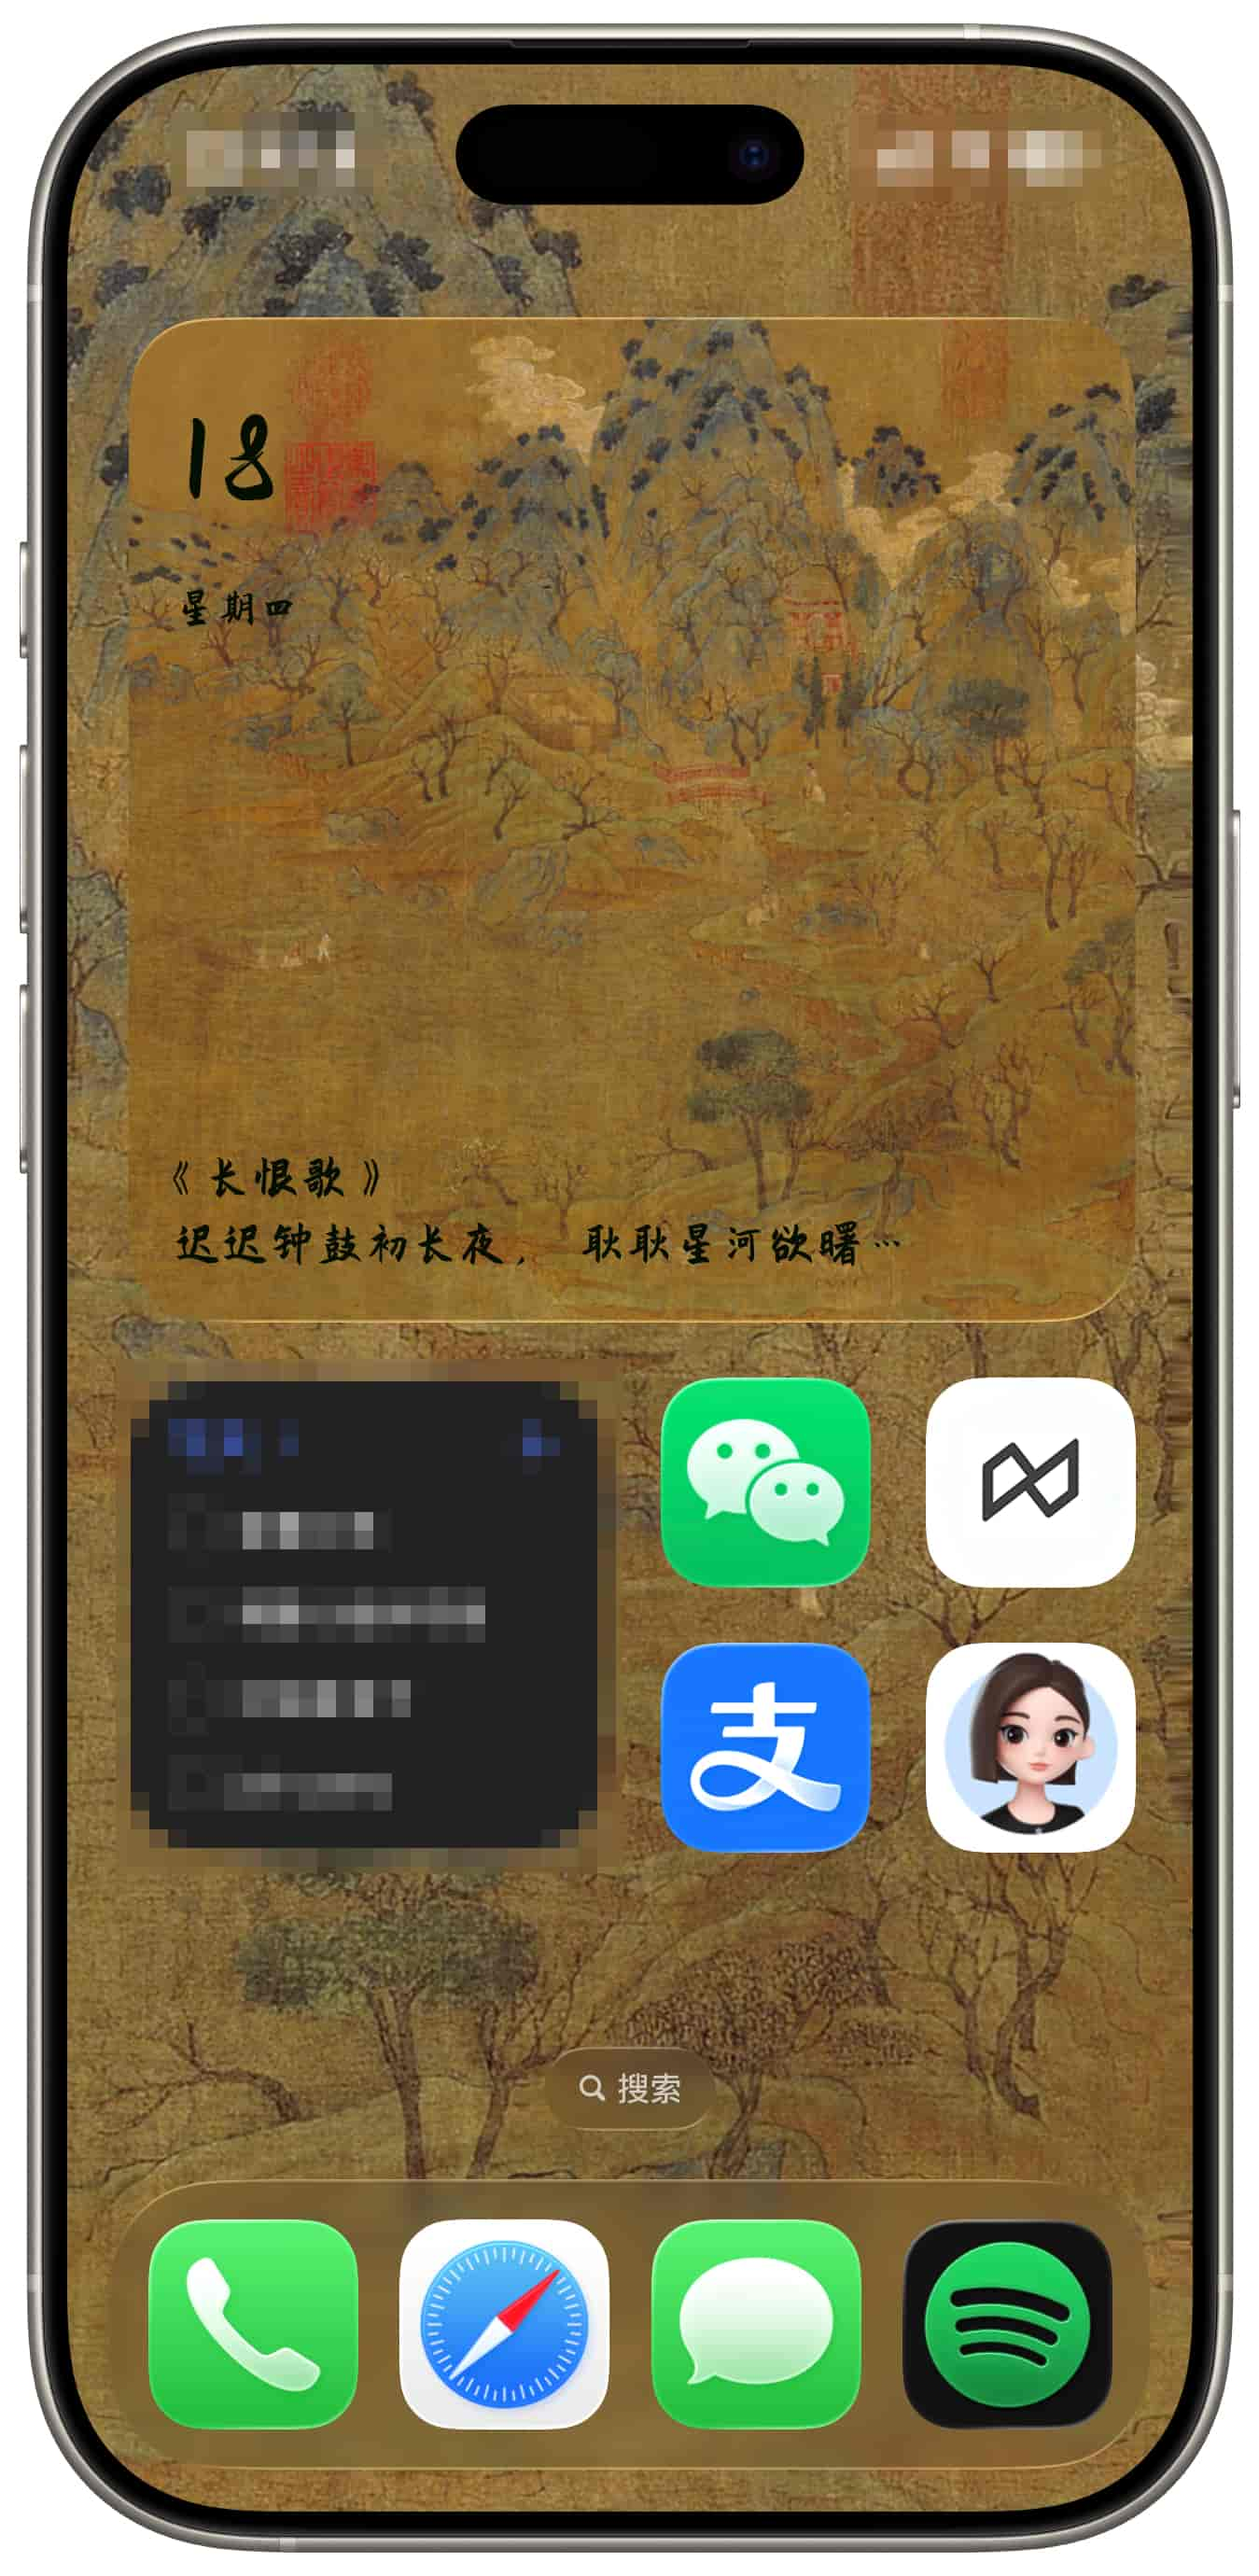
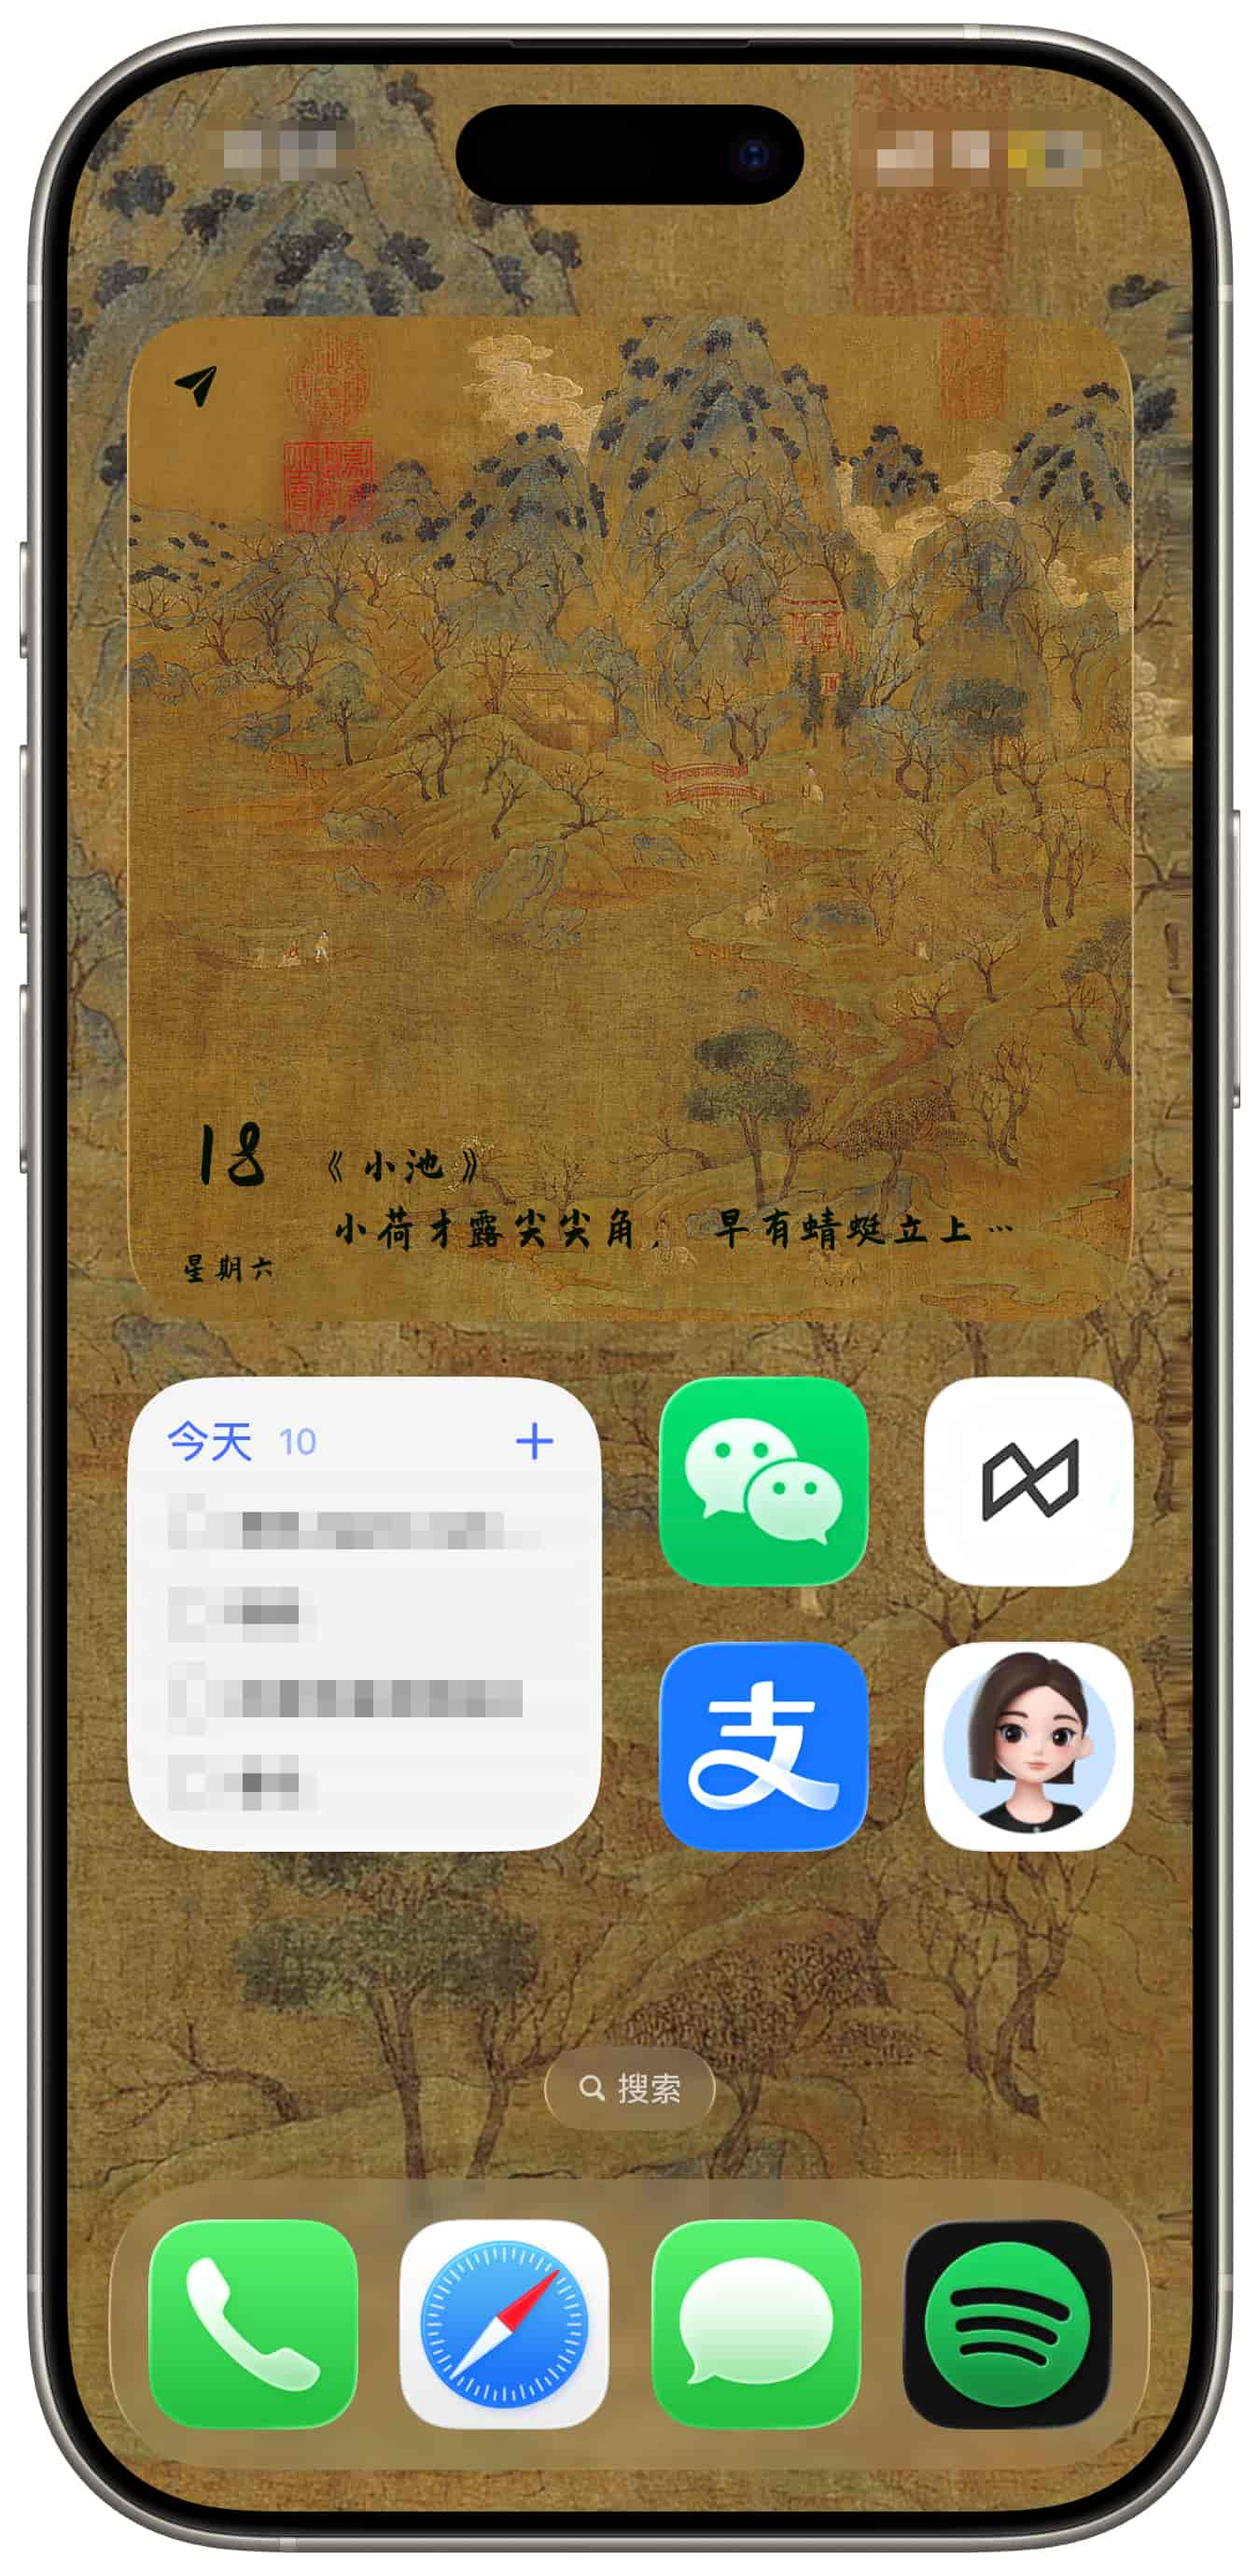
更新桌面和小组件描述，优化语言表达以提升可读性

diff --git a/src/en/帖子/手机美化/iOS手机美化.md b/src/en/帖子/手机美化/iOS手机美化.md
@@ -205,7 +205,7 @@ tag:
 |Preview|Description|
 |---|---|
 |![Lock Screen](../../../image/今日诗词主题/今日诗词主题_1.jpg =200x)|Lock Screen:<br>Automatically updates the lock screen wallpaper daily at 00:00.|
-|![Desktop & Widgets](../../../image/今日诗词主题/今日诗词主题_2.jpg =200x)|Desktop:<br>Automatically updates the home screen wallpaper daily at 00:00.<br>Widgets:<br>1. Supports adaptive sizes: small, medium, and large.<br>2. Displays date and day of the week in the top left corner.<br>3. Displays poetry in the bottom left corner.<br>4. Automatically updates the widget wallpaper and poetry daily at 00:00.|
+|![Desktop & Widgets](../../../image/今日诗词主题/今日诗词主题_2.jpg =200x)|Desktop:<br>Automatically updates the desktop wallpaper at 00:00 every day.<br>Widget:<br>1. Supports automatic adaptation to large, medium, and small sizes.<br>2. The small airplane icon in the top-left corner allows access to download the original image.<br>3. Displays the date and poetry at the bottom.<br>4. Automatically updates the widget wallpaper at 00:00 every day.|
 
 ### Installation Guide
 

diff --git a/src/帖子/手机美化/iOS手机美化.md b/src/帖子/手机美化/iOS手机美化.md
@@ -205,7 +205,7 @@ tag:
 |预览|说明|
 |---|---|
 |![锁屏](../../image/今日诗词主题/今日诗词主题_1.jpg =200x)|锁屏：<br>每天00:00自动更新锁屏壁纸。|
-|![桌面&小组件](../../image/今日诗词主题/今日诗词主题_2.jpg =200x)|桌面：<br>每天00:00自动更新桌面壁纸。<br>小组件：<br>1. 支持大中小自适应。<br>2. 左上角显示日期与星期。<br>3. 左下角显示诗词。<br>4. 每天00:00自动更新小组件壁纸、诗词。|
+|![桌面&小组件](../../image/今日诗词主题/今日诗词主题_2.jpg =200x)|桌面：<br>每天00:00自动更新桌面壁纸。<br>小组件：<br>1. 支持大中小自适应。<br>2. 左上角小飞机可前往下载原图。<br>3. 下方显示日期、诗词。<br>4. 每天00:00自动更新小组件壁纸。|
 
 ### 安装指南
 
